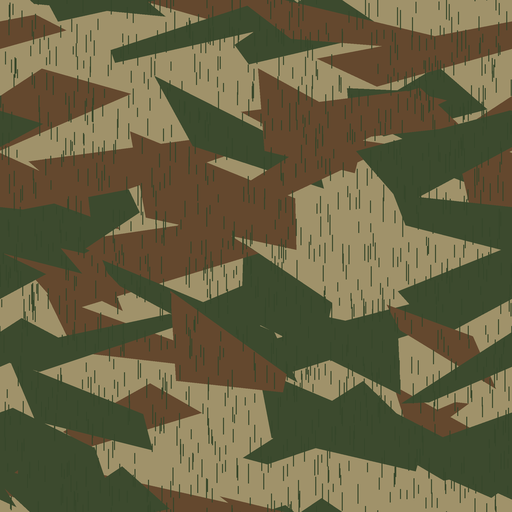
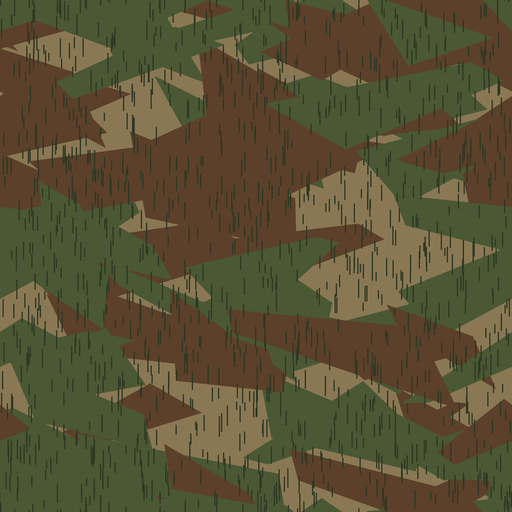
finishes2: full paint/camo build (70 guns, 126 sheets, 8 coats + Airborne 101st, ranks 1240+, fids 40-48): staging pak 177.2 MB at 1024 px; opaque mid-toned camo; in-game stills of Kar98k splitter, MP40 telo, Colt whitewash

diff --git a/docs/proposals/finishes2_2026-11-09/tools/fs2_build.py b/docs/proposals/finishes2_2026-11-09/tools/fs2_build.py
@@ -1,0 +1,120 @@
+"""finishes2 - full build of the PAINT / CAMO finishes (whitewash, DAK, Kriegsmarine, airborne OD (+ the 101st variant on the
+same coat), splitter, pea, telo, amoeba) for every holdable gun, into a STAGING tree for zzzzzzzzzz_coop_finishes_hd.pk3:
+  textures/coop_finishes_hd/<sheet>/mask.png, mask_ww.png        coat coverage (grey), shared by the finishes of a sheet
+  textures/coop_finishes_hd/<sheet>/<fin>.jpg                    the premultiplied coat, q85, max side 1024 (user)
+  scripts/coop_finishes_hd.shader                                one shader per sheet x finish (fs2_layers.shader_block)
+  models/weapons/<stem>_fs2_<fin>.tik                            the variant weapon: name "<Base> (<Finish>)", rank 1240+
+  rows.tsv                                                       give path, fid (40+), variant tik - for loadoutskins.scr
+Nothing is deployed: the pak is written to the staging dir only. Sheets two guns share are baked once (the first gun's mask).
+    python fs2_build.py <roster.tsv> [stem ...]
+"""
+import hashlib, io, json, os, re, sys, time, zipfile
+import numpy as np
+from PIL import Image
+
+HERE = os.path.dirname(os.path.abspath(__file__))
+sys.path.insert(0, HERE)
+import finishlib as fl  # noqa: E402
+import fs2_layers as L  # noqa: E402
+import uvview  # noqa: E402
+sys.path.insert(0, os.path.join(HERE, '..', '..', 'ironsights_2026-09-28', 'tools'))
+import vfs  # noqa: E402
+
+STAGE = os.path.join("H:" + os.sep, "hzm_work", "finishes2_build")
+PAK = "zzzzzzzzzz_coop_finishes_hd.pk3"
+FINS = ('whitewash', 'dak', 'kriegsmarine', 'airborne', 'splitter', 'pea', 'telo', 'amoeba')
+VARIANTS = FINS + ('airborne101',)                   # airborne101 = the airborne coat; its patch is a bench quad
+DISPLAY = dict(whitewash='Whitewash', dak='Afrika Korps', kriegsmarine='Kriegsmarine', airborne='Airborne',
+               airborne101='Airborne 101st', splitter='Splinter', pea='Pea Dot', telo='Telo', amoeba='Amoeba')
+FID0, RANK0 = 40, 1240                               # agreed ranges (README)
+SKIP = re.compile(r'(clip|sight|scope|glass|bullet|round|ammo|strap|sling|reticle|lens|hand|flash|muzzle|env|gloss)', re.I)
+GRENADES = {'64', '65', '66', '67', '68', '69'}
+
+
+def sheet_key(path):
+    stem = re.sub(r'[^a-z0-9]+', '_', os.path.splitext(os.path.basename(path))[0].lower()).strip('_')
+    return "%s_%s" % (stem, hashlib.md5(path.lower().encode()).hexdigest()[:4])
+
+
+def put(rel, data):
+    p = os.path.join(STAGE, 'pak', *rel.split('/'))
+    os.makedirs(os.path.dirname(p), exist_ok=True)
+    open(p, 'wb').write(data)
+
+
+def main():
+    rows = [l.rstrip('\n').split('\t') for l in open(sys.argv[1], encoding='utf-8') if l.strip()]
+    only = set(sys.argv[2:])
+    os.makedirs(STAGE, exist_ok=True)
+    state_p = os.path.join(STAGE, 'state.json')
+    st = json.load(open(state_p)) if os.path.exists(state_p) else dict(sheets={}, guns={}, rank=RANK0)
+    for gid, tik, name, cls in rows:
+        stem = os.path.splitext(os.path.basename(tik))[0]
+        if gid in GRENADES or (only and stem not in only):
+            continue
+        t0 = time.time()
+        g = fl.load_gun(tik)
+        surf_map = {}
+        for sh in sorted(set(s['shader'] for s in g['surfs'])):
+            m, path, pk, im, blk = uvview.shader_image(sh)
+            if im is None or SKIP.search(path or '') or min(im.size) < 256:
+                continue
+            key = sheet_key(path)
+            if key not in st['sheets']:
+                _p, masks, coats = L.layers(g, sh, FINS)
+                # the mask as a GREY png (coverage in its value; the darken stage is GL_ZERO GL_ONE_MINUS_SRC_COLOR). Measured
+                # for all 126 sheets: grey png 40.6 MB, grey jpeg 49.8 (the chip noise), RGBA png 58.7
+                b = io.BytesIO(); masks['dak'].split()[3].save(b, 'PNG', optimize=True)
+                put('textures/coop_finishes_hd/%s/mask.png' % key, b.getvalue())
+                b = io.BytesIO(); masks['whitewash'].split()[3].save(b, 'PNG', optimize=True)
+                put('textures/coop_finishes_hd/%s/mask_ww.png' % key, b.getvalue())
+                for f in FINS:
+                    b = io.BytesIO(); coats[f].save(b, 'JPEG', quality=85, optimize=True)
+                    put('textures/coop_finishes_hd/%s/%s.jpg' % (key, f), b.getvalue())
+                st['sheets'][key] = dict(path=path, shader=sh, size=list(im.size))
+            surf_map[sh] = key
+        if not surf_map:
+            print(gid, stem, 'no paintable sheet', flush=True)
+            continue
+        raw = vfs.read(tik)
+        text = raw.decode('latin-1').replace('\r\n', '\n')
+        base_name = re.search(r'(?mi)^\s*name\s+"([^"]+)"', text).group(1)
+        gun = st['guns'].setdefault(stem, dict(tik=tik, name=base_name, variants={}))
+        for i, f in enumerate(VARIANTS):
+            coat = 'airborne' if f == 'airborne101' else f
+            smap = {sh: 'coop_fs2_%s_%s' % (key, coat) for sh, key in surf_map.items()}
+            if f not in gun['variants']:
+                gun['variants'][f] = dict(rank=st['rank'], fid=FID0 + i)
+                st['rank'] += 1
+            v = gun['variants'][f]
+            vt = L.variant_tik(text, DISPLAY[f], v['rank'], smap).replace('\n', '\r\n')
+            put('models/weapons/%s_fs2_%s.tik' % (stem, f), vt.encode('latin-1'))
+        json.dump(st, open(state_p, 'w'), indent=1)
+        print(gid, stem, len(surf_map), 'sheets', '%.0fs' % (time.time() - t0), flush=True)
+    # shaders + rows for everything built so far
+    blocks = []
+    for key, s in sorted(st['sheets'].items()):
+        for f in FINS:
+            mp = 'textures/coop_finishes_hd/%s/%s.png' % (key, 'mask_ww' if f == 'whitewash' else 'mask')
+            blocks.append(L.shader_block('coop_fs2_%s_%s' % (key, f), s['path'], mp,
+                                         'textures/coop_finishes_hd/%s/%s.jpg' % (key, f)))
+    put('scripts/coop_finishes_hd.shader', ('// GENERATED by docs/proposals/finishes2_2026-11-09/tools/fs2_build.py\n\n'
+                                           + '\n'.join(blocks)).replace('\n', '\r\n').encode())
+    with open(os.path.join(STAGE, 'rows.tsv'), 'w', encoding='utf-8') as f:
+        f.write('give\tfid\tfinish\tvariant\trank\n')
+        for stem, gun in sorted(st['guns'].items()):
+            for fin, v in sorted(gun['variants'].items(), key=lambda kv: kv[1]['fid']):
+                f.write('%s\t%d\t%s\tmodels/weapons/%s_fs2_%s.tik\t%d\n' % (gun['tik'], v['fid'], fin, stem, fin, v['rank']))
+    pak = os.path.join(STAGE, PAK)
+    with zipfile.ZipFile(pak, 'w', zipfile.ZIP_DEFLATED) as z:
+        root = os.path.join(STAGE, 'pak')
+        for d, _ds, fs_ in os.walk(root):
+            for n in sorted(fs_):
+                p = os.path.join(d, n)
+                rel = os.path.relpath(p, root).replace(os.sep, '/')
+                z.write(p, rel, compress_type=zipfile.ZIP_STORED if rel.endswith(('.jpg', '.png')) else zipfile.ZIP_DEFLATED)
+    print('pak', pak, '%.1f MB' % (os.path.getsize(pak) / 1e6), len(st['sheets']), 'sheets', len(st['guns']), 'guns')
+
+
+if __name__ == '__main__':
+    main()

diff --git a/docs/proposals/finishes2_2026-11-09/tools/fs2_still.py b/docs/proposals/finishes2_2026-11-09/tools/fs2_still.py
@@ -1,0 +1,67 @@
+"""finishes2 - in-game stills of the BUILT finishes pak on the private client (G:\\mohaa-wpnview only, never the live
+install): the staging zzzzzzzzzz_coop_finishes_hd.pk3 plus a throwaway pak whose base tiks are the chosen finishes' variant
+tiks with the base name / rank (the normal loadout gives them, the viewer shows them). One boot, three guns: hip, reload,
+viewer both sides. Both paks come off the client afterwards.
+    python fs2_still.py            (the caller holds the display-queue turn)
+"""
+import os, re, shutil, sys, zipfile
+
+STAGE = os.path.join("H:" + os.sep, "hzm_work", "finishes2_build")
+PAK = "zzzzzzzzzz_coop_finishes_hd.pk3"
+OVER = "zzzzzzzzzzzzzzzzzzzzzz_fs2_over.pk3"
+# (stem, finish, loadout cfg, weapon name to use, viewer entry)
+SHOTS = [("kar98", "splitter", "w03_s1", "Mauser KAR 98K", "e020"),
+         ("mp40", "telo", "w26_s1", "MP40", "e264"),
+         ("colt45", "whitewash", "w48_s3", "Colt 45", "e486")]
+
+
+def main():
+    sys.path.insert(0, r"C:\mohaa-coop-dev\docs\proposals\wpnviewer_2026-11-04\tools")
+    import wpnview_run as W
+    W.RES.update({"uw": (3440, 1440, 0)})
+    over = os.path.join(STAGE, OVER)
+    with zipfile.ZipFile(over, 'w', zipfile.ZIP_DEFLATED) as z:
+        for stem, fin, _c, _n, _e in SHOTS:
+            t = open(os.path.join(STAGE, 'pak', 'models', 'weapons', '%s_fs2_%s.tik' % (stem, fin)), encoding='latin-1').read()
+            # back to the base gun's own name and rank: it IS the base gun for this look test
+            t = re.sub(r'(?mi)^(\s*name\s+)"([^"]+) \([^)]*\)"', r'\1"\2"', t, count=1)
+            sys.path.insert(0, r"C:\mohaa-coop-dev\docs\proposals\ironsights_2026-09-28\tools")
+            import vfs
+            base = vfs.read('models/weapons/%s.tik' % stem).decode('latin-1')
+            r = re.search(r'(?mi)^\s*rank\s+(\d+)\s+(\d+)', base)
+            t = re.sub(r"(?mi)^(\s*rank\s+)\d+\s+\d+", lambda m: "%s%s %s" % (m.group(1), r.group(1), r.group(2)), t, count=1)
+            z.writestr('models/weapons/%s.tik' % stem, t.encode('latin-1'))
+    dsts = [os.path.join(W.MAINTT, PAK), os.path.join(W.MAINTT, OVER)]
+    shutil.copyfile(os.path.join(STAGE, PAK), dsts[0])
+    shutil.copyfile(over, dsts[1])
+    try:
+        s = W.Script()
+        s.cmd("echo ^~^~^ FS boot", 85000)
+        s.cmd("+attack", 300)
+        s.cmd("-attack", 7000)
+        for stem, fin, cfg, name, _e in SHOTS:
+            s.cmd("exec ui/loadout/%s.cfg" % cfg, 6000)
+            s.cmd('use "%s"' % name, 3000)
+            s.cmd("screenshotJPEG fs_%s_hip" % stem, 600)
+            s.cmd("reload", 900)
+            s.cmd("screenshotJPEG fs_%s_reload" % stem, 500)
+        s.cmd("disconnect", 6000)
+        s.cmd("exec ui/hzm_attic_go_rack.cfg", 2500)
+        for stem, fin, cfg, name, e in SHOTS:
+            s.cmd("exec ui/wpnview/%s.cfg" % e, 900)
+            s.cmd("screenshotJPEG fs_%s_viewer" % stem, 400)
+            s.cmd("set ui_wvSpin 200", 700)
+            s.cmd("screenshotJPEG fs_%s_viewer_left" % stem, 400)
+            s.cmd("set ui_wvSpin 0", 300)
+        s.cmd("quit", 0)
+        W.launch("fs2_built", os.environ.get("WV_RES", "uw"), s,
+                 lines=['seta coop_lo2 ""', 'seta coop_loA2 ""', 'seta coop_loFA2 ""', "set g_gametype 2",
+                        "set coop_dev 1", "set coop_lockLoadout 0", "set ui_dmmap m2l1", "ui_startdmmap 2"], budget=300)
+    finally:
+        for d in dsts:
+            if os.path.exists(d):
+                os.remove(d)
+
+
+if __name__ == '__main__':
+    main()

diff --git a/docs/proposals/finishes2_2026-11-09/tools/patterns.py b/docs/proposals/finishes2_2026-11-09/tools/patterns.py
@@ -66,9 +66,9 @@ def blob(rng, cx, cy, r, lobes=7, rough=0.35, k=24):
 def splitter(rng):
     """Splittertarn: the field is cut by long straight lines into angular shards; about a third of the shards are printed
     brown, a third green, the rest stay tan - then the fine green rain strokes over everything"""
-    T = Torus(bg=(160, 146, 106))
-    cols = ((60, 74, 46), (100, 72, 46))
-    for _ in range(46):
+    T = Torus(bg=(138, 120, 84))                 # khaki-brown ground, mid-toned as printed (not cream)
+    cols = ((74, 88, 52), (92, 64, 42))           # green and dark brown shards
+    for _ in range(70):
         cx, cy = rng.random(), rng.random()
         a = rng.choice((rng.uniform(-0.5, -0.2), rng.uniform(0.2, 0.5))) + math.pi * rng.randint(0, 1)
         L, W = rng.uniform(0.10, 0.26), rng.uniform(0.04, 0.09)
@@ -79,24 +79,24 @@ def splitter(rng):
         T.poly([(cx + x * ca - y * sa, cy + x * sa + y * ca) for x, y in q], cols[rng.randint(0, 1)])
     for _ in range(1300):
         x, y = rng.random(), rng.random()
-        T.line([(x, y), (x, y + rng.uniform(0.015, 0.04))], (54, 70, 42), 0.0024)
+        T.line([(x, y), (x, y + rng.uniform(0.015, 0.04))], (46, 56, 36), 0.0026)   # the dark rain
     return T.done()
 
 
 def pea(rng):
-    T = Torus(bg=(156, 140, 104))
-    for col, n, r in (((98, 74, 50), 14, 0.07), ((70, 82, 52), 14, 0.06)):
+    T = Torus(bg=(132, 116, 84))
+    for col, n, r in (((92, 68, 46), 14, 0.07), ((66, 78, 48), 14, 0.06)):
         for _ in range(n):
             T.poly(blob(rng, rng.random(), rng.random(), r * rng.uniform(0.7, 1.3), rough=0.5), col)
-    for col in ((88, 64, 42), (64, 76, 46), (178, 160, 120)):   # the dots: brown, green and light, everywhere
+    for col in ((80, 58, 38), (58, 70, 42), (160, 144, 108)):   # the dots: brown, green and light, everywhere
         for _ in range(900):
             T.ellipse(rng.random(), rng.random(), 0.0045, 0.0045, col)
     return T.done()
 
 
 def telo(rng):
-    T = Torus(bg=(176, 150, 96))
-    for col, n in (((112, 84, 52), 7), ((86, 98, 58), 7)):
+    T = Torus(bg=(150, 128, 84))
+    for col, n in (((104, 76, 48), 7), ((78, 90, 52), 7)):
         for _ in range(n):
             T.poly(blob(rng, rng.random(), rng.random(), rng.uniform(0.10, 0.16), rough=0.45), col)
     im = T.done().filter(ImageFilter.GaussianBlur(1.6))   # printed cloth: soft edges

diff --git a/docs/proposals/finishes2_2026-11-09/tools/finish_sheet.py b/docs/proposals/finishes2_2026-11-09/tools/finish_sheet.py
@@ -95,9 +95,18 @@ def shade(base):
     return L / max(float(np.median(L)), 1e-3)
 
 
+def paint_shade(base):
+    """how much of the gun's own light / dark shows THROUGH a coat of paint: only the broad shape (a heavy low-pass), and
+    only a little - paint is opaque, so no wood grain, no tool marks (coordinator QA: the grain showed through)"""
+    from scipy import ndimage as nd
+    L = lum(base)
+    L = nd.gaussian_filter(L, max(2.0, base.shape[1] / 48.0))
+    return np.clip(L / max(float(np.median(L)), 1e-3), 0.82, 1.06)[..., None]
+
+
 def coat(base, rgb, keep=0.45):
     """a paint colour shaded by the texture's own light / dark (keep = how much of the shading survives the paint)"""
-    return np.clip(np.array(rgb, float)[None, None, :] / 255.0 * (1 - keep + keep * shade(base)), 0, 1)
+    return np.clip(np.array(rgb, float)[None, None, :] / 255.0 * paint_shade(base), 0, 1)
 
 
 def over(a, b, m):
@@ -174,12 +183,12 @@ def finish_tex(fin, base, ctx):
         return over(out, np.array([0.46, 0.24, 0.11]) * (0.7 + 0.3 * shade(base)), np.clip(r * 0.75, 0, 0.75))
     if fin in ('splitter', 'pea', 'telo', 'amoeba'):
         pat = tiled(tile('camo_' + fin), H, W, ctx['rep']('camo_' + fin))[..., :3]
-        pat = np.clip(pat * {'splitter': 1.0, 'pea': 0.78, 'telo': 0.6, 'amoeba': 0.72}[fin], 0, 1)
-        cam = np.clip(pat * (0.35 + 0.65 * shade(base)), 0, 1)
+        pat = np.clip(pat * {'splitter': 1.0, 'pea': 1.0, 'telo': 1.0, 'amoeba': 1.0}[fin], 0, 1)
+        cam = np.clip(pat * paint_shade(base), 0, 1)
         return over(rgb, cam, paint_m)
     if fin == 'whitewash':
         w = tiled(tile('camo_whitewash'), H, W, ctx['rep']('camo_whitewash'))[..., 3]
-        white = np.clip(np.array([0.84, 0.84, 0.82]) * (0.5 + 0.5 * shade(base)) * (0.88 + 0.12 * w[..., None]), 0, 1)
+        white = np.clip(np.array([0.84, 0.84, 0.82]) * paint_shade(base) * (0.88 + 0.12 * w[..., None]), 0, 1)
         big = tiled(tile('wear_chips'), H, W, ctx['rep']('wear_chips') * 0.35)[..., 3]      # larger worn-through patches
         cover = np.clip(0.45 + 0.6 * w, 0, 1) * m ** 3 * (0.1 + 0.9 * chips) * (0.35 + 0.65 * big)
         return over(rgb * 0.8, white, np.clip(cover, 0, 0.96))

diff --git a/docs/proposals/finishes2_2026-11-09/tools/fs2_layers.py b/docs/proposals/finishes2_2026-11-09/tools/fs2_layers.py
@@ -45,11 +45,11 @@ def coat(fin, base, ctx):
         rgb = fs.over(rgb, np.array([0.46, 0.24, 0.11]) * (0.7 + 0.3 * fs.shade(base)), np.clip(r * 0.75, 0, 0.75))
     elif fin in ('splitter', 'pea', 'telo', 'amoeba'):
         pat = fs.tiled(fs.tile('camo_' + fin), H, W, ctx['rep']('camo_' + fin))[..., :3]
-        pat = np.clip(pat * {'splitter': 1.0, 'pea': 0.78, 'telo': 0.6, 'amoeba': 0.72}[fin], 0, 1)
-        rgb = np.clip(pat * (0.35 + 0.65 * fs.shade(base)), 0, 1)
+        pat = np.clip(pat * {'splitter': 1.0, 'pea': 1.0, 'telo': 1.0, 'amoeba': 1.0}[fin], 0, 1)   # the tiles carry true colours
+        rgb = np.clip(pat * fs.paint_shade(base), 0, 1)
     elif fin == 'whitewash':
         w = fs.tiled(fs.tile('camo_whitewash'), H, W, ctx['rep']('camo_whitewash'))[..., 3]
-        rgb = np.clip(np.array([0.84, 0.84, 0.82]) * (0.5 + 0.5 * fs.shade(base)) * (0.88 + 0.12 * w[..., None]), 0, 1)
+        rgb = np.clip(np.array([0.84, 0.84, 0.82]) * fs.paint_shade(base) * (0.88 + 0.12 * w[..., None]), 0, 1)
         big = fs.tiled(fs.tile('wear_chips'), H, W, ctx['rep']('wear_chips') * 0.35)[..., 3]
         a = np.clip(np.clip(0.45 + 0.6 * w, 0, 1) * m ** 3 * (0.1 + 0.9 * chips) * (0.35 + 0.65 * big), 0, 0.96)
     else:
@@ -77,7 +77,10 @@ def shader_block(name, base_path, mask_path, coat_path):
     base = re.sub(r'\.(dds|jpg|png)$', '.tga', base_path, flags=re.I)        # as the stock shaders name it (.dds wins at load)
     return "\n".join([name, "{", "\tqer_editorimage %s" % base,
                       "\t{", "\t\tmap %s" % base, "\t\trgbGen lightingSpherical", "\t}",
-                      "\t{", "\t\tmap %s" % mask_path, "\t\tblendFunc GL_ZERO GL_ONE_MINUS_SRC_ALPHA", "\t}",
+                      "\t{", "\t\tmap %s" % mask_path,
+                      # a grey png / jpg mask carries the coverage in its value, a tga (the first look test) in alpha
+                      "\t\tblendFunc GL_ZERO %s" % ("GL_ONE_MINUS_SRC_ALPHA" if mask_path.endswith('.tga') else "GL_ONE_MINUS_SRC_COLOR"),
+                      "\t}",
                       "\t{", "\t\tmap %s" % coat_path, "\t\tblendFunc GL_ONE GL_ONE", "\t\trgbGen lightingSpherical", "\t}",
                       "}", ""])
 

diff --git a/docs/proposals/finishes2_2026-11-09/README.md b/docs/proposals/finishes2_2026-11-09/README.md
@@ -35,3 +35,11 @@ half base res 802 MB, cap 1024 366 MB, cap 512 95 MB, **cap 384 54 MB**, cap 320
 (main sheet per gun only: cap 512 44 MB, cap 384 25 MB). At cap 384 a rifle sheet is ~1 mm per texel - camo shapes
 (3-6 cm) and edge wear still resolve. Plan: the gun's own HD texture stays; the paint is two stages over it - the per-gun
 mask darkens (GL_ZERO GL_ONE_MINUS_SRC_ALPHA), the premultiplied paint is added and lit (GL_ONE GL_ONE, lightingSpherical).
+
+## Paint / camo build (2026-11-09) - real size
+User raised the cap to 1024 px (higher quality). Built by tools/fs2_build.py into H:\hzm_work\finishes2_build (staging, not
+deployed): **zzzzzzzzzz_coop_finishes_hd.pk3 = 177.2 MB** - 126 sheets, 70 guns, 8 coats (134.4 MB of q85 JPEG), grey PNG
+masks 40.6 MB (grey JPEG was larger: 49.8, RGBA PNG 58.7), 630 variant tiks (9 per gun: the 8 coats + Airborne 101st on
+the airborne coat; ranks 1240+, fids 40-48 in rows.tsv for loadoutskins.scr). Paint is opaque now (only the broad shading of
+the gun shows through, no wood grain); Splittertarn / pea / telo mid-toned. Verified in game: media/ingame_built_3guns.jpg.
+Open: wiring into gen_skins (loadoutskins rows, finish picker names, unlock ladder), the four shader-composited finishes.
